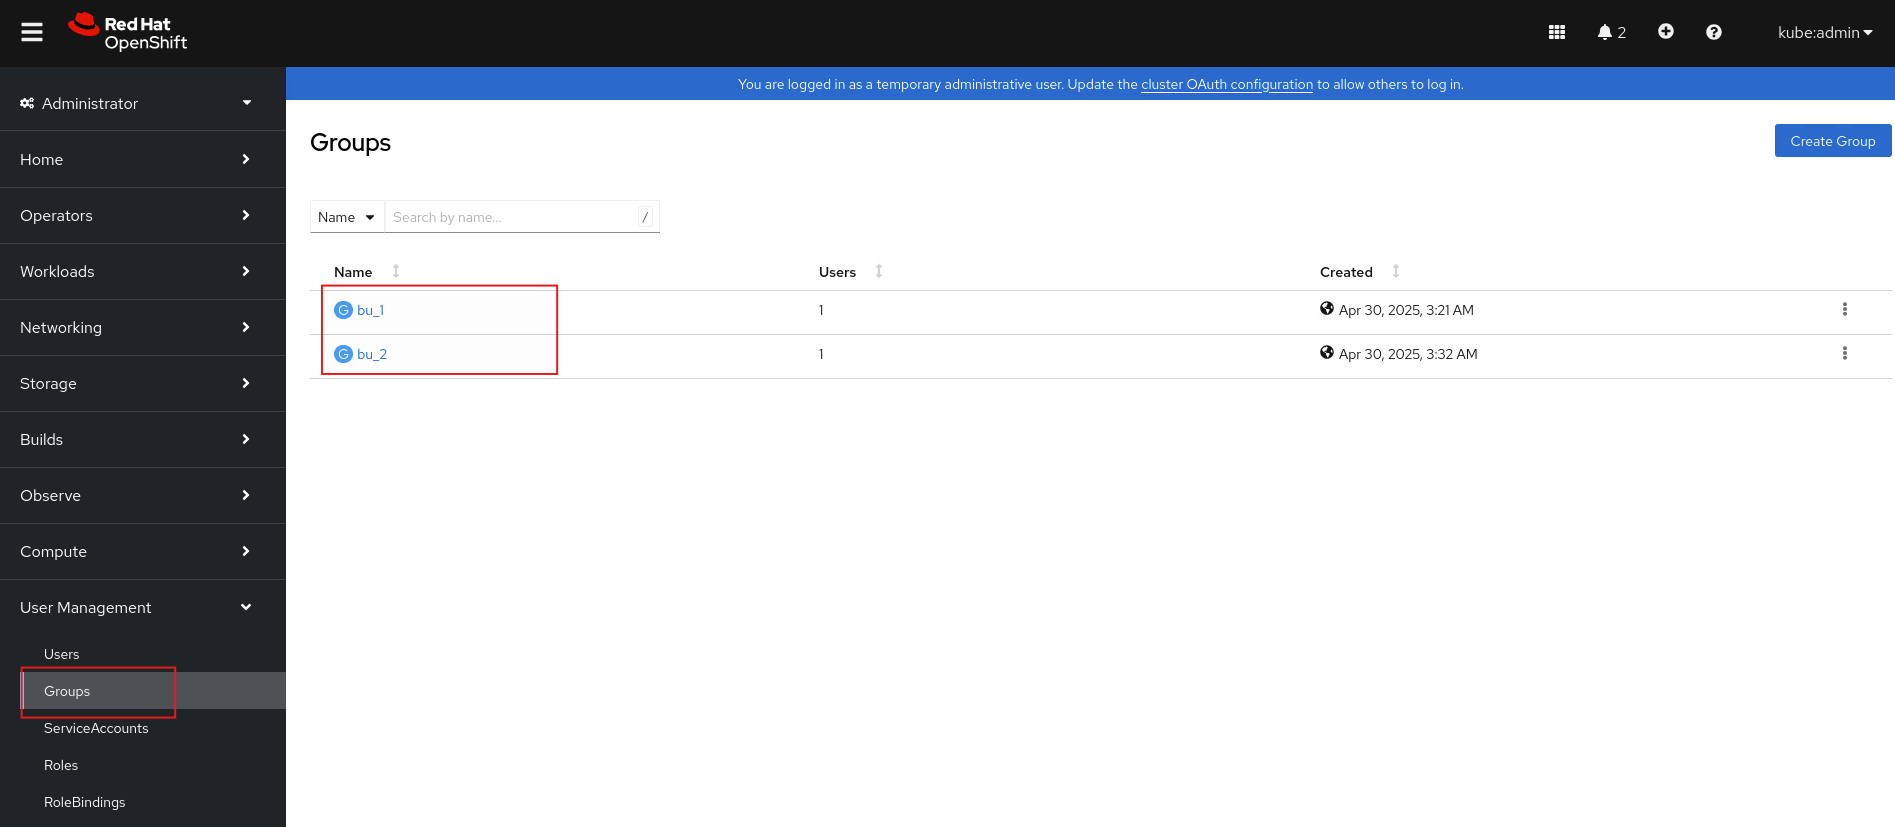
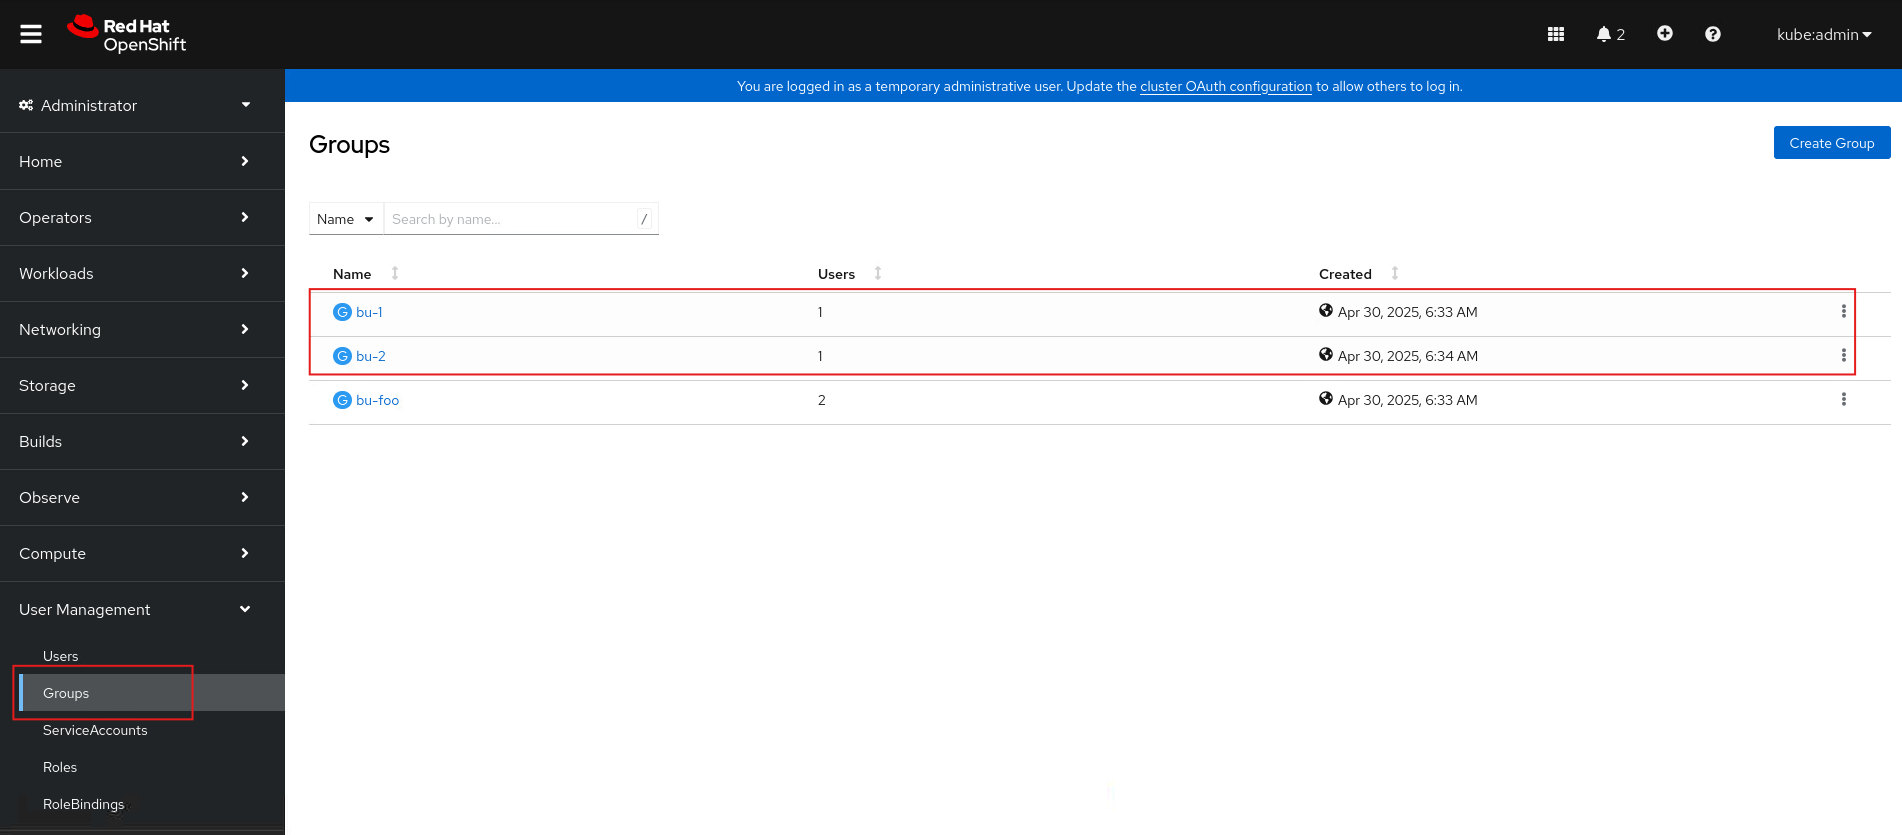
fix: replace underscore into hyphen

diff --git a/source/_posts/2025-04-30-sync-groups-in-keycloak-to-openshift.md b/source/_posts/2025-04-30-sync-groups-in-keycloak-to-openshift.md
@@ -27,20 +27,22 @@ uid=jdoe,ou=People,dc=example,dc=com
 uid=william,ou=People,dc=example,dc=com
 ou=Groups,dc=example,dc=com
 ldap:/ # dsidm localhost -b "dc=example,dc=com" group create
-Enter value for cn : bu_1
-Successfully created bu_1
+Enter value for cn : bu-1
+Successfully created bu-1
 ldap:/ # dsidm localhost -b "dc=example,dc=com" group create
-Enter value for cn : bu_2
-Successfully created bu_2
-ldap:/ # dsidm localhost group add_member bu_1 uid=jdoe,ou=People,dc=example,dc=com
+Enter value for cn : bu-2
+Successfully created bu-2
+ldap:/ # dsidm localhost group add_member bu-1 uid=jdoe,ou=People,dc=example,dc=com
 added member: uid=jdoe,ou=People,dc=example,dc=com
-ldap:/ # dsidm localhost group add_member bu_2 uid=william,ou=People,dc=example,dc=com
+ldap:/ # dsidm localhost group add_member bu-2 uid=william,ou=People,dc=example,dc=com
 added member: uid=william,ou=People,dc=example,dc=com
 ldap:/ #
 ```
 
-`jdoe` belongs to group `bu_1`
-`william` belongs to group `bu_2`
+`jdoe` belongs to group `bu-1`
+`william` belongs to group `bu-2`
+
+注意underscore(_)在整合openshfit的時候會有一些問題(ex. 有設定RoleBinding但沒有發生效果)，暫時先用hyphen(-)
 
 有兩件事要處理
 1. LDAP的group同步至Keycloak
@@ -68,7 +70,7 @@ ldap:/ #
 prompt如下
 ```
 I have a openshift cluster and a keycloak. I use OAuth in openshift with openid connect related with keycloak.
-keycloak has a realm which name is test-realm and there are two users and two groups. one of the user is foo_user and its group is bu_1
+keycloak has a realm which name is test-realm and there are two users and two groups. one of the user is foo_user and its group is bu-1
 
 using openshift webconsole to login in with foo_user. there is user sync from keycloak but the group does not sync.
 
@@ -96,7 +98,7 @@ can you figure out what happen
 
 這邊須注意**Full group path**要關閉，開啟的話登入會失敗
 
-開或關的影響是在openid connect回傳的JWT ID Tokens內的groups內容，開啟的話例如: **/bu_1**，關閉的話僅保留 **bu_1**，沒有/，這部分會在下面驗證的段落看到實際例子
+開或關的影響是在openid connect回傳的JWT ID Tokens內的groups內容，開啟的話例如: **/bu-1**，關閉的話僅保留 **bu-1**，沒有/，這部分會在下面驗證的段落看到實際例子
 ![keycloak_client_groups_5](keycloak_client_groups_5.png)
 
 ![keycloak_client_groups_6](keycloak_client_groups_6.png)
@@ -187,7 +189,7 @@ curl -k --request POST \
   "email_verified": false,
   "name": "John Doe Doe",
   "groups": [
-    "bu_1"
+    "bu-1"
   ],
   "preferred_username": "jdoe",
   "given_name": "John Doe",
